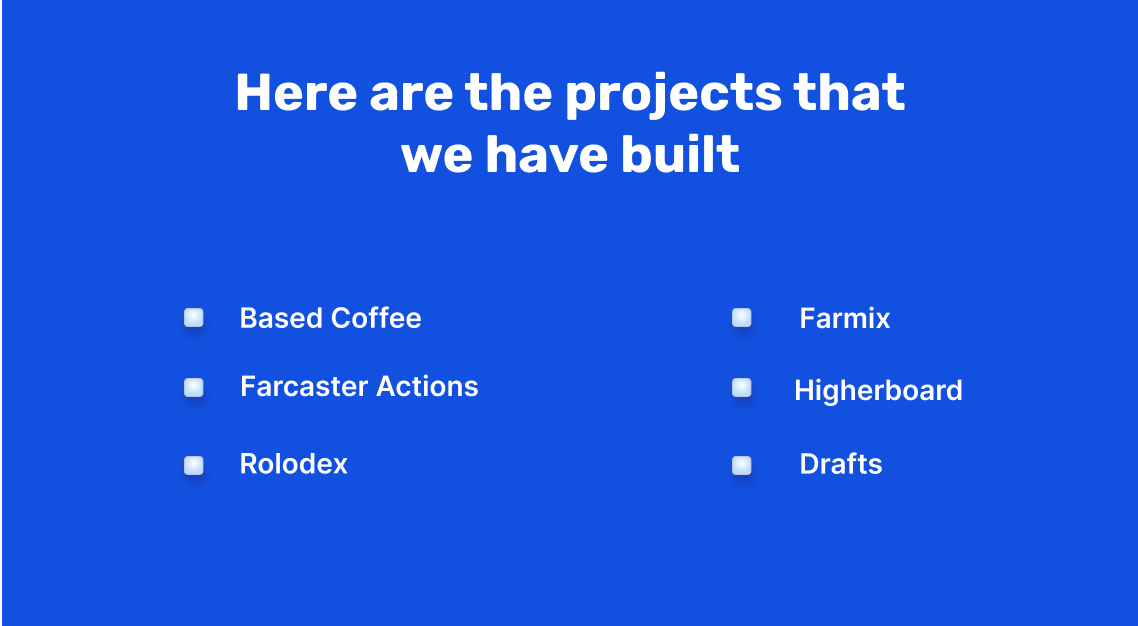
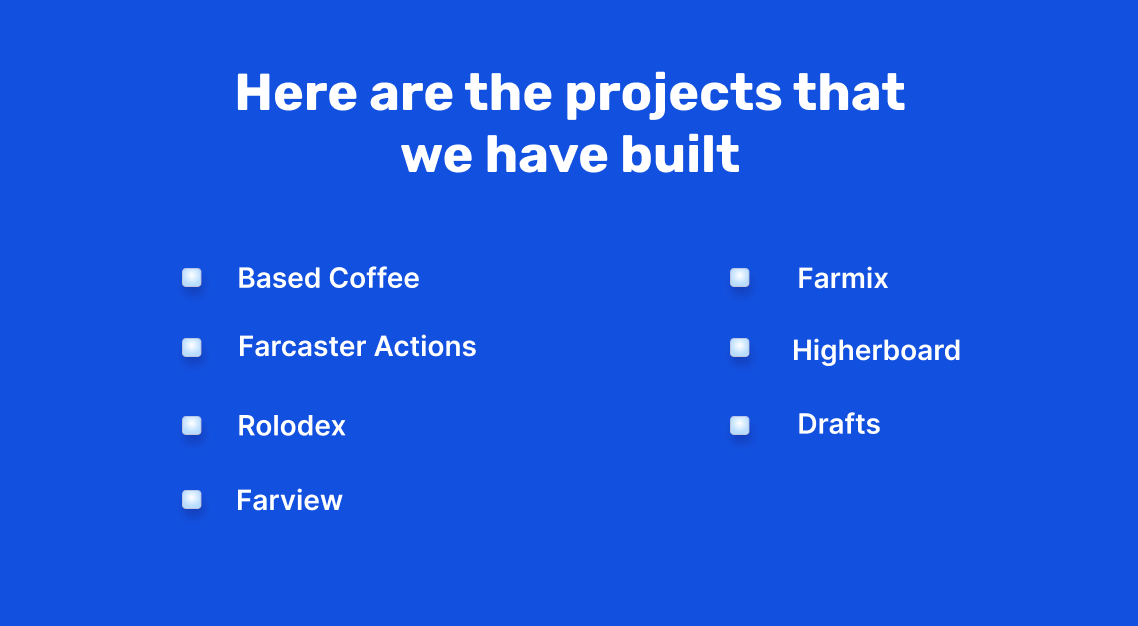
added farview

diff --git a/app/utils/projectArray.ts b/app/utils/projectArray.ts
@@ -33,5 +33,11 @@ export const dummyProjects = [
         fid: 599407,
         wallet: "0x2BAC66A77b700aF2d54C43E89A823461E60316f7",
         imageName: "higherboard.png"
+    },
+    {
+        name: "Farview",
+        fid: 244416,
+        wallet: "0x3039e4a4a540F35ae03A09f3D5A122c49566f919",
+        imageName: "farview.png"
     }
 ];
